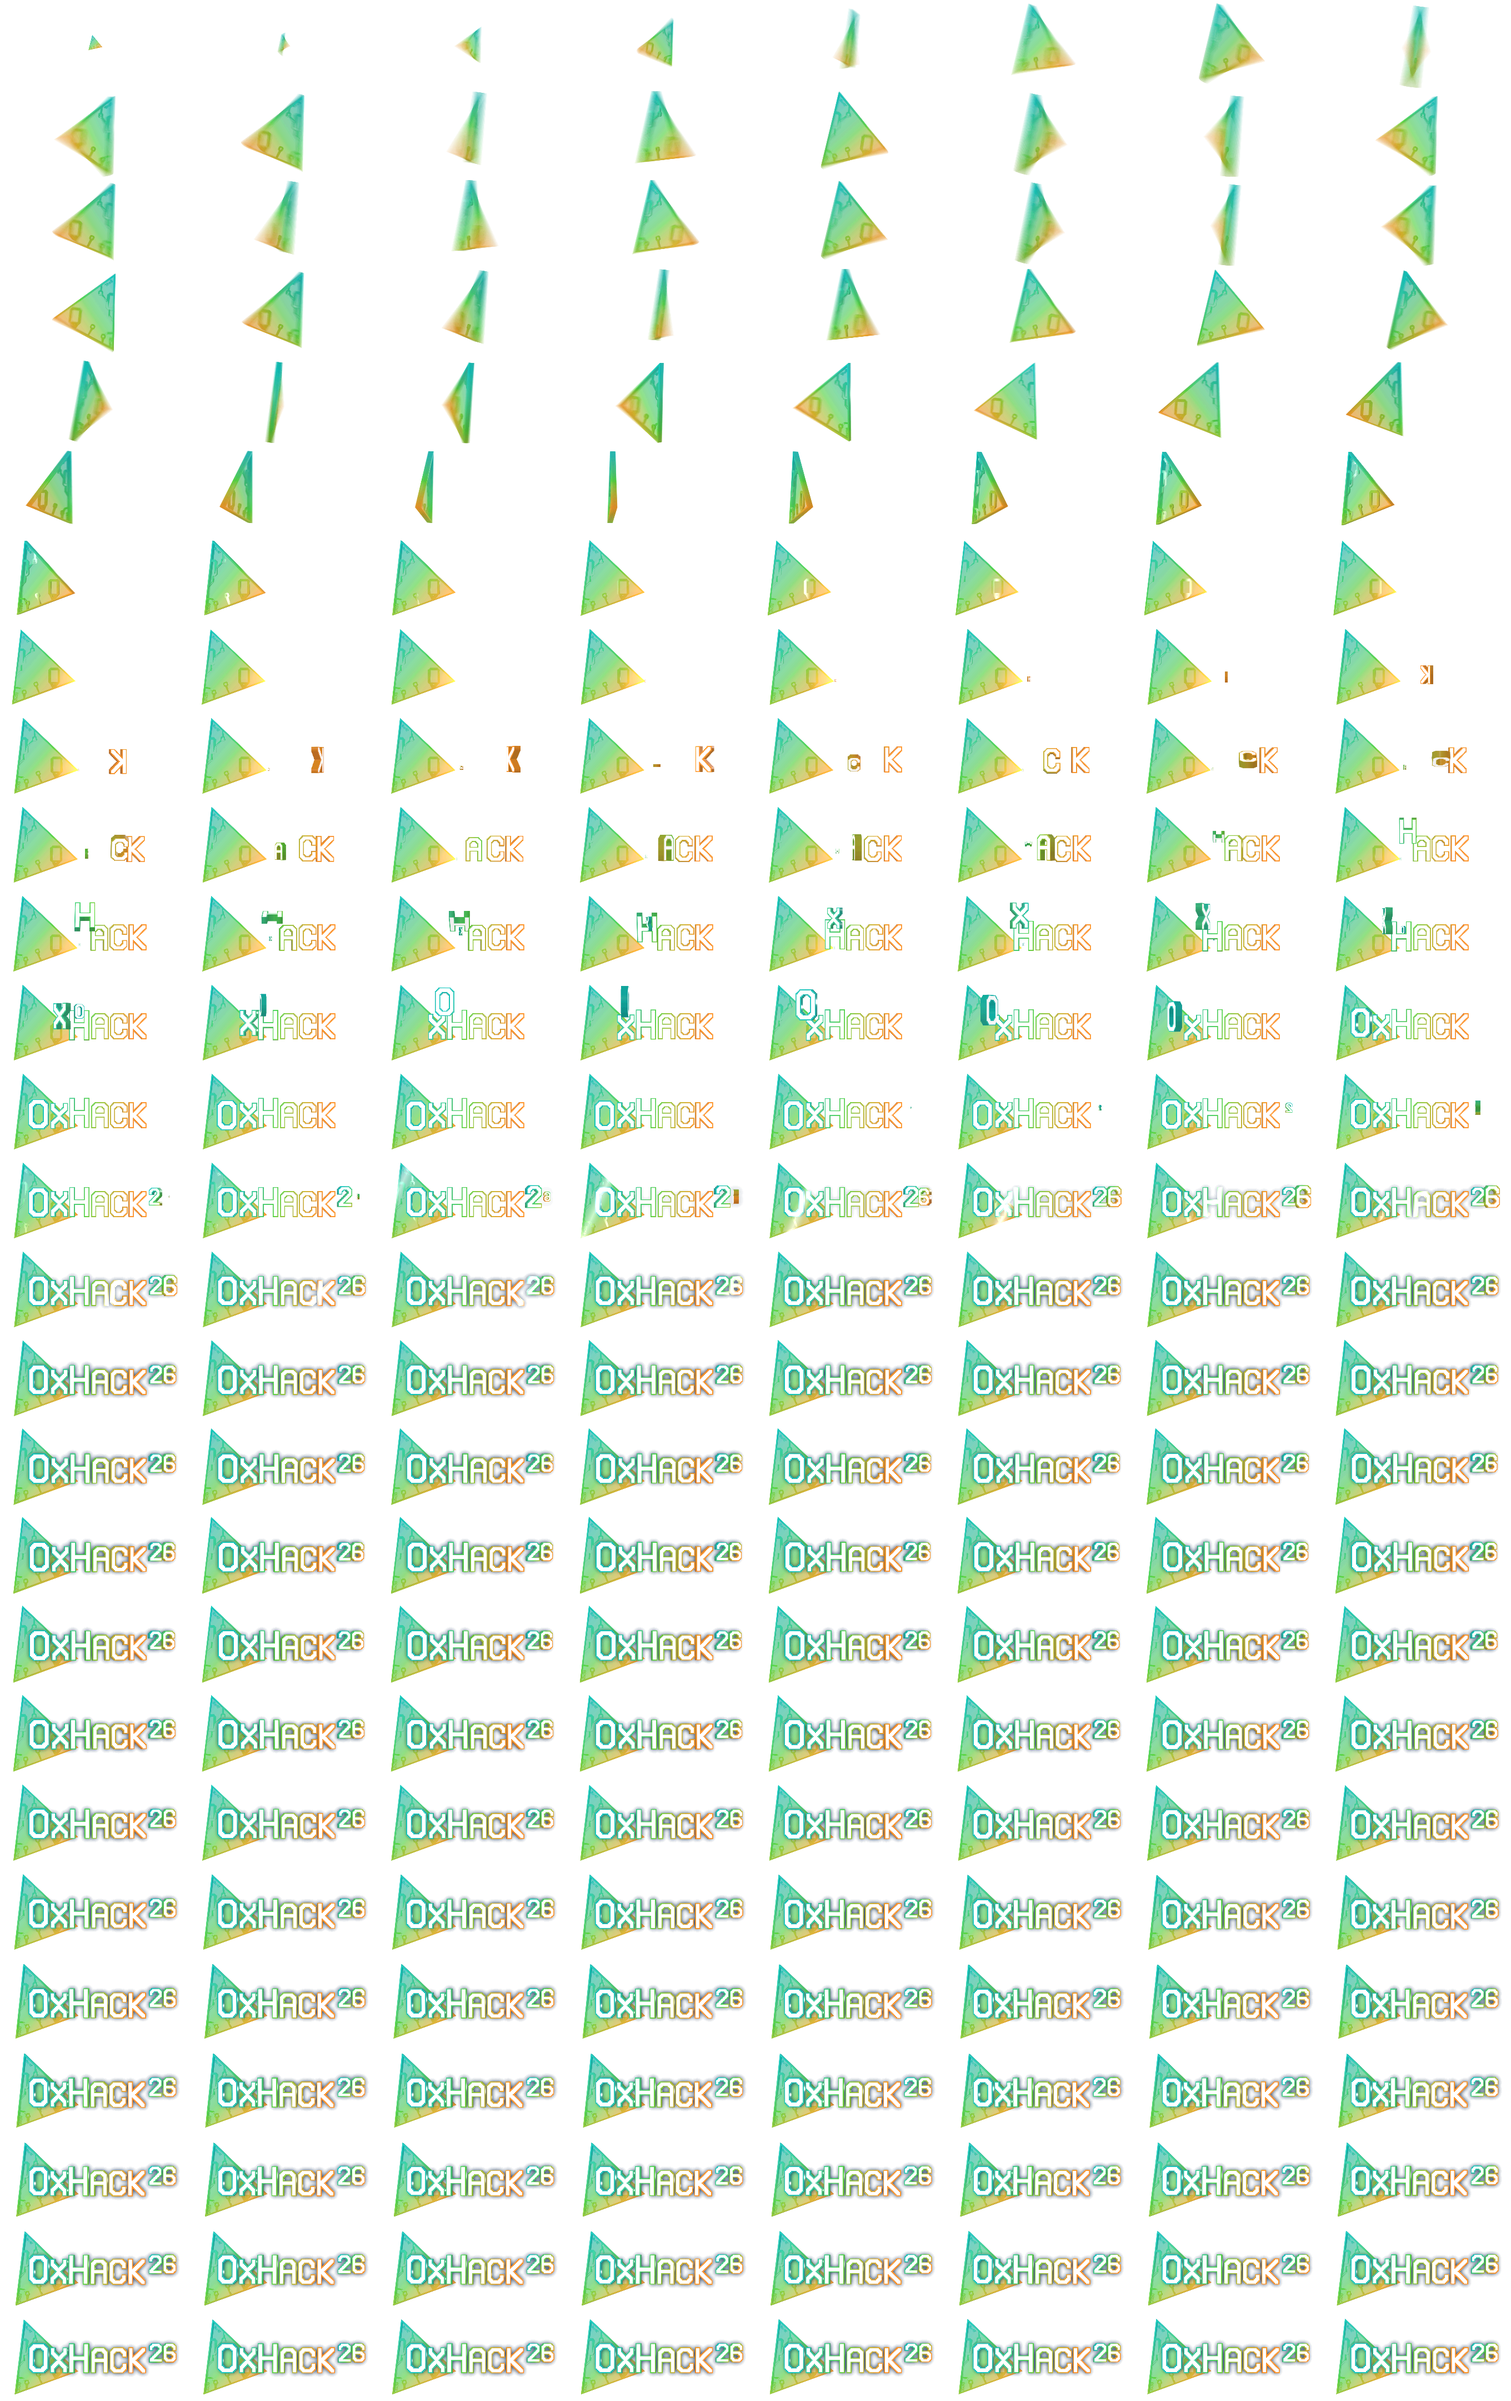
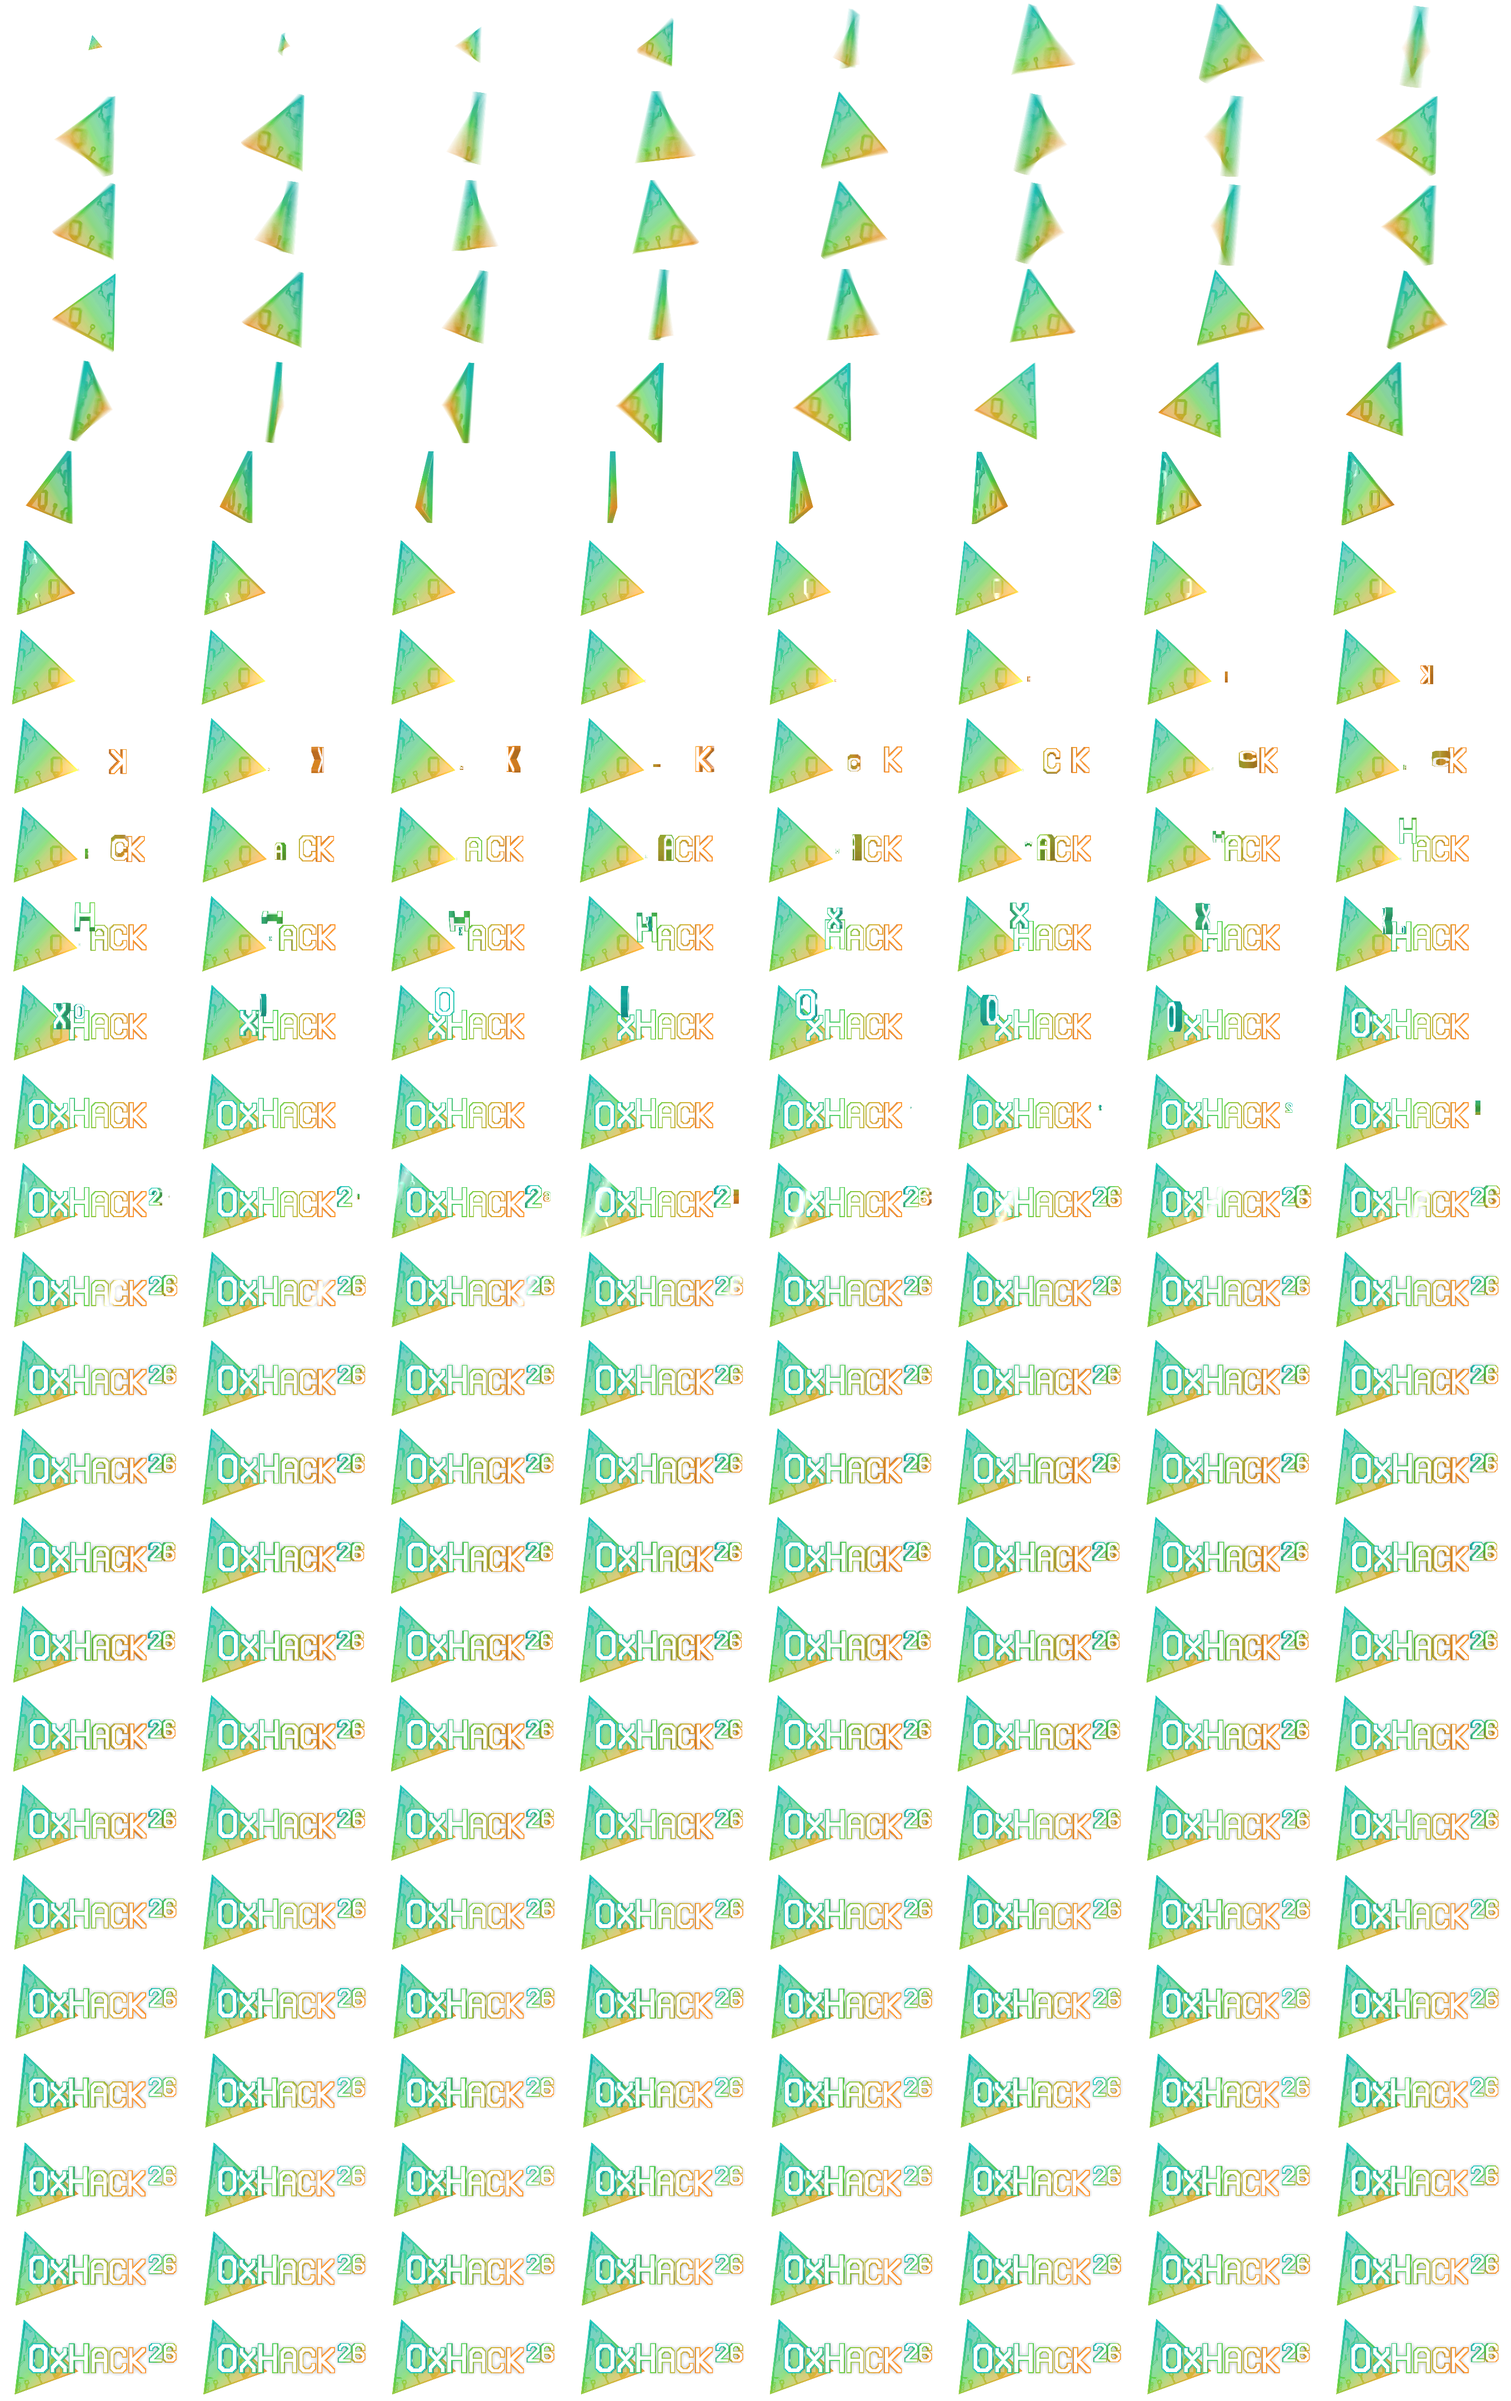
Lighten the OxHack 26 shadow
The source's full navy glow read too heavy on the LCD. Run it at .28 strength,
which keeps the white letters legible on the light screen. The frame budget,
border and idle loop are unchanged.

diff --git a/scripts/blender/build-oxhack-wordmark.py b/scripts/blender/build-oxhack-wordmark.py
@@ -1,7 +1,7 @@
 """Run through Blender MCP with absolute ROOT and OUTPUT paths.
 The wordmark's triangle spins down like a flywheel and glides left until its tip
 points right like a play button. O x H A C K then fire out of that tip, K first,
-and spring into their slots; 2 and 6 pop in last, the navy glow fades up behind
+and spring into their slots; 2 and 6 pop in last, a faint navy glow fades up behind
 the letters and one sheen crosses the logo. Frames 121-216 sway seamlessly.
 Colour comes from oxhack_rig's SVG gradients. Unlike the rig's defaults, emission
 carries most of each colour so it survives the light LCD, and side walls are
@@ -416,6 +416,8 @@ for char, start in (('2', 100), ('6', 104)):
         key(holder, frame, location=(sx, sy, LETTER_Z), scale=(size, size, size), rotation_euler=(0, -math.tau * (1 - min(s, 1)) - 1.4 * min(1 - s, 0), 0))
 
 # Finale: a charge runs the traces into the tip before the launch; glow and sheen last.
+# The source's full glow read too heavy on the LCD; this keeps the white faces legible.
+GLOW_STRENGTH = .28
 accent_values = {node.name: node for node in ACCENT.nodes if node.type == 'VALUE'}
 
 
@@ -445,7 +447,7 @@ for frame in range(1, INTRO + 1):
         at, gain = -500, 0
     key_value(accent_values['Sheen At'], frame, at)
     key_value(accent_values['Sheen Gain'], frame, gain)
-    key_value(glow_fade, frame, smooth((frame - 105) / 13))
+    key_value(glow_fade, frame, GLOW_STRENGTH * smooth((frame - 105) / 13))
 glow.hide_render = True
 glow.keyframe_insert('hide_render', frame=1)
 glow.hide_render = False

diff --git a/docs/oxhack-banners-2026-11-01.md b/docs/oxhack-banners-2026-11-01.md
@@ -27,7 +27,9 @@ about the event have been supplied, and none should be invented.
   sheen turns the letters white.
 - **Wordmark:** the triangle spins alone through 5 turns from 5.8 rev/s and glides
   left. K, C and A fire out of its tip and run straight to their slots; H, x and O
-  hop over the row. 2 and 6 pop in last, then the navy glow and a sheen arrive.
+  hop over the row. 2 and 6 pop in last, then a faint navy glow and a sheen arrive.
+  The glow runs at .28 strength because the user found the source's full glow too
+  heavy on the LCD. At zero the white faces and 26 fade into the light screen.
 
 ## Runtime
 
@@ -69,8 +71,8 @@ Editable sources are `assets/blender/oxhack-compact.blend` and
 
 - The compact shader is unlit: surfaces emit colours measured from the reference,
   because the source's `mix-blend-mode:color` overlays are not in the contours.
-- Wordmark letters are faint on the light LCD from about frames 70-105, before the
-  glow arrives.
+- Wordmark letters are faint on the light LCD, most of all from about frames 70-105
+  before the glow arrives.
 - Atlases are 1.5 MB and 2.0 MB, two to three times the size of the other banners.
 - A HOME capture that includes slots 8 or 9 now shows these titles. Label that as
   an adaptation, not a native regression.
